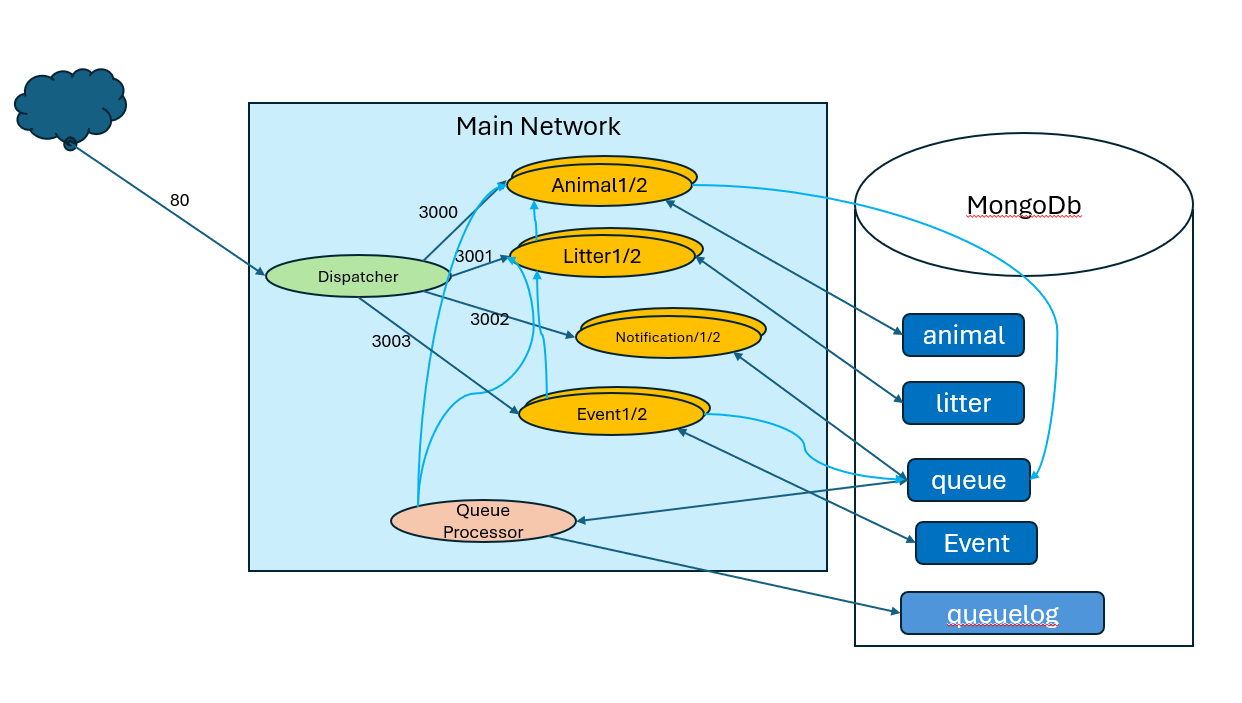
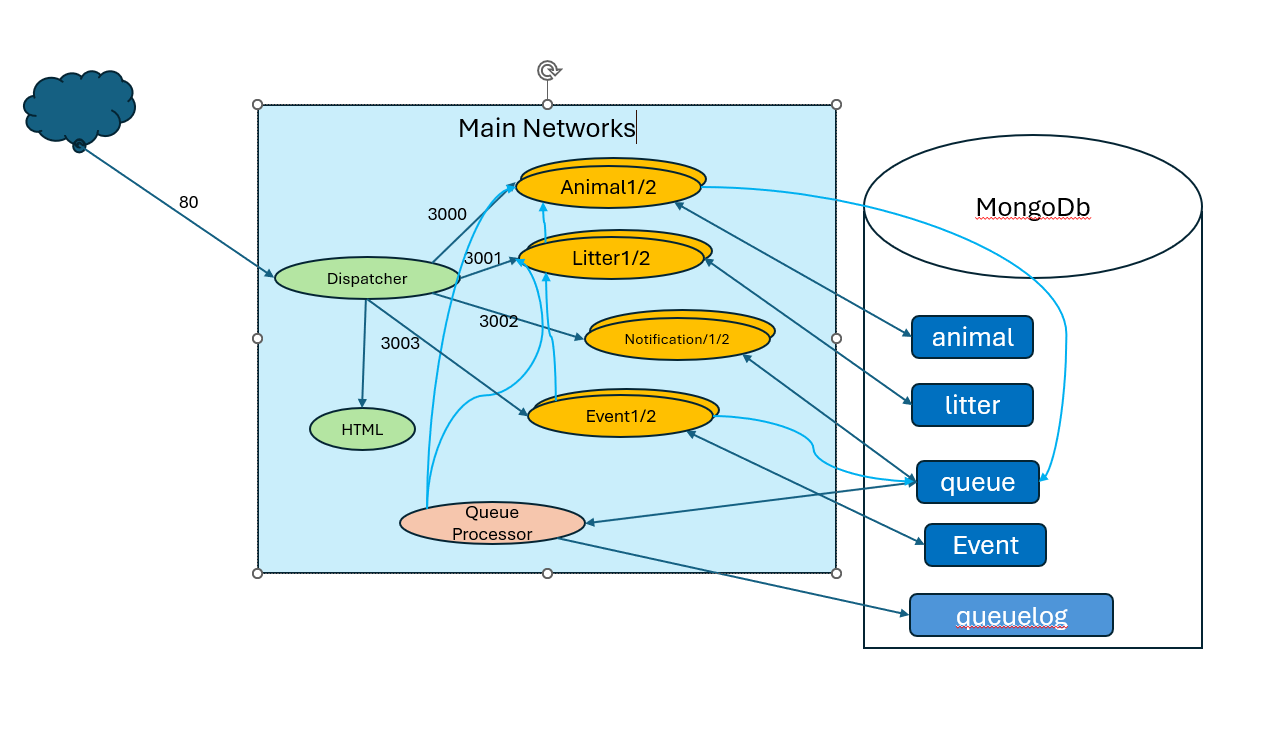
readme

diff --git a/README.md b/README.md
@@ -7,7 +7,9 @@
 
 * prototypes:
   * all components are deployed as docker containers
-  * 3 micro services (animal, litter, event) only directly access corresponding database collections
+  * 3 API micro services (animal, litter, event) only directly access corresponding database collections
+  * 1 HTML micro service (html) serves HTML page
+  * 1 helper API micro service (notification) opens to write queue messages.
   * cross micro-service communication can be performed 
     * synchronously - directly makes the api call
     * asynchronously - enqueue the task 
